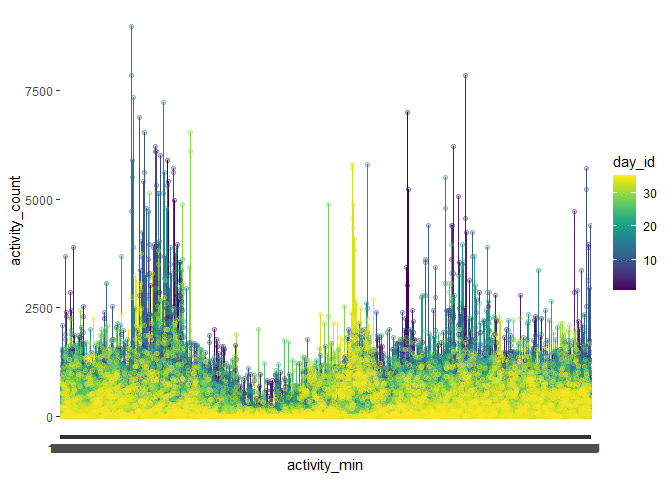
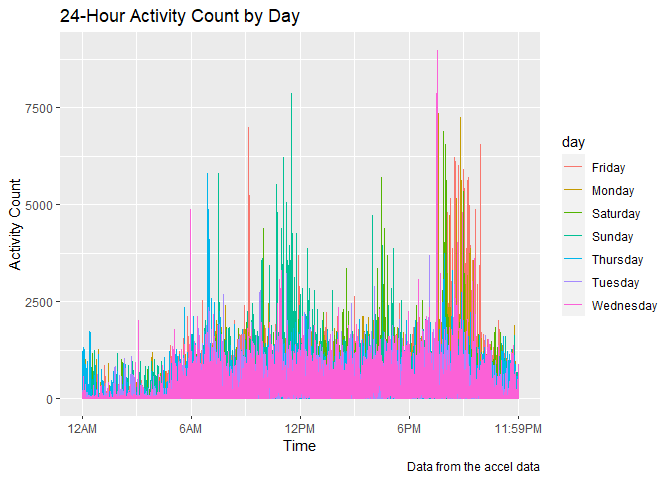
html output and correct minor mistakes

diff --git a/p8105_hw3_jc5929.md b/p8105_hw3_jc5929.md
@@ -2,8 +2,6 @@ p8105_hw3_jc5929
 ================
 2022-10-15
 
-**Question 2**
-
 ``` r
 library(tidyverse) 
 ```
@@ -22,6 +20,115 @@ library(ggridges)
 library(patchwork) 
 library(dplyr)
 library(knitr)
+library(p8105.datasets)
+```
+
+**Question 1**
+
+``` r
+data("instacart")
+
+instacart = 
+  instacart %>% 
+  as_tibble(instacart)
+```
+
+This dataset contains 1384617 rows and 15 columns, with each row
+resprenting a single product from an instacart order. Variables include
+identifiers for user, order, and product; the order in which each
+product was added to the cart. There are several order-level variables,
+describing the day and time of the order, and number of days since prior
+order. Then there are several item-specific variables, describing the
+product name (e.g. Yogurt, Avocado), department (e.g. dairy and eggs,
+produce), and aisle (e.g. yogurt, fresh fruits), and whether the item
+has been ordered by this user in the past. In total, there are 39123
+products found in 131209 orders from 131209 distinct users
+
+``` r
+instacart %>% 
+  count(aisle) %>% 
+  arrange(desc(n))
+```
+
+    ## # A tibble: 134 × 2
+    ##    aisle                              n
+    ##    <chr>                          <int>
+    ##  1 fresh vegetables              150609
+    ##  2 fresh fruits                  150473
+    ##  3 packaged vegetables fruits     78493
+    ##  4 yogurt                         55240
+    ##  5 packaged cheese                41699
+    ##  6 water seltzer sparkling water  36617
+    ##  7 milk                           32644
+    ##  8 chips pretzels                 31269
+    ##  9 soy lactosefree                26240
+    ## 10 bread                          23635
+    ## # … with 124 more rows
+
+``` r
+instacart %>% 
+  count(aisle) %>% 
+  filter(n > 10000) %>% 
+  mutate(aisle = fct_reorder(aisle, n)) %>% 
+  ggplot(aes(x = aisle, y = n)) + 
+  geom_point() + 
+  labs(title = "Number of items ordered in each aisle") +
+  theme(axis.text.x = element_text(angle = 60, hjust = 1))
+```
+
+![](p8105_hw3_jc5929_files/figure-gfm/unnamed-chunk-3-1.png)<!-- -->
+Above is a plot that shows the number of items ordered in each aisle.
+Here, aisles are ordered by ascending number of items.
+
+``` r
+instacart %>% 
+  filter(aisle %in% c("baking ingredients", "dog food care", "packaged vegetables fruits")) %>%
+  group_by(aisle) %>% 
+  count(product_name) %>% 
+  mutate(rank = min_rank(desc(n))) %>% 
+  filter(rank < 4) %>% 
+  arrange(desc(n)) %>%
+  knitr::kable()
+```
+
+| aisle                      | product_name                                  |    n | rank |
+|:---------------------------|:----------------------------------------------|-----:|-----:|
+| packaged vegetables fruits | Organic Baby Spinach                          | 9784 |    1 |
+| packaged vegetables fruits | Organic Raspberries                           | 5546 |    2 |
+| packaged vegetables fruits | Organic Blueberries                           | 4966 |    3 |
+| baking ingredients         | Light Brown Sugar                             |  499 |    1 |
+| baking ingredients         | Pure Baking Soda                              |  387 |    2 |
+| baking ingredients         | Cane Sugar                                    |  336 |    3 |
+| dog food care              | Snack Sticks Chicken & Rice Recipe Dog Treats |   30 |    1 |
+| dog food care              | Organix Chicken & Brown Rice Recipe           |   28 |    2 |
+| dog food care              | Small Dog Biscuits                            |   26 |    3 |
+
+A table showing the mean hour of the day at which Pink Lady Apples and
+Coffee Ice Cream are ordered on each day of the week. This table has
+been formatted in an untidy manner for human readers. Pink Lady Apples
+are generally purchased slightly earlier in the day than Coffee Ice
+Cream, with the exception of day 5.
+
+``` r
+instacart %>%
+  filter(product_name %in% c("Pink Lady Apples", "Coffee Ice Cream")) %>%
+  group_by(product_name, order_dow) %>%
+  summarize(mean_hour = mean(order_hour_of_day)) %>%
+  spread(key = order_dow, value = mean_hour) %>%
+  knitr::kable(digits = 2)
+```
+
+    ## `summarise()` has grouped output by 'product_name'. You can override using the
+    ## `.groups` argument.
+
+| product_name     |     0 |     1 |     2 |     3 |     4 |     5 |     6 |
+|:-----------------|------:|------:|------:|------:|------:|------:|------:|
+| Coffee Ice Cream | 13.77 | 14.32 | 15.38 | 15.32 | 15.22 | 12.26 | 13.83 |
+| Pink Lady Apples | 13.44 | 11.36 | 11.70 | 14.25 | 11.55 | 12.78 | 11.94 |
+
+**Question 2**
+
+``` r
 accel_data=read_csv("data/accel_data.csv") %>%
   janitor::clean_names() %>%
   pivot_longer(
@@ -54,55 +161,67 @@ mutate(activity_count=round(activity_count,2)) %>%
 
 ``` r
 accel_data %>%
-  group_by(day_id) %>%
+  group_by(day_id,week,day) %>%
   summarize(n_obs=n(),
             total_activity=sum(activity_count)) %>%
   knitr::kable()
 ```
 
-| day_id | n_obs | total_activity |
-|-------:|------:|---------------:|
-|      1 |  1440 |      480542.61 |
-|      2 |  1440 |       78828.18 |
-|      3 |  1440 |      376254.00 |
-|      4 |  1440 |      631105.00 |
-|      5 |  1440 |      355923.72 |
-|      6 |  1440 |      307094.19 |
-|      7 |  1440 |      340115.01 |
-|      8 |  1440 |      568839.00 |
-|      9 |  1440 |      295431.00 |
-|     10 |  1440 |      607175.00 |
-|     11 |  1440 |      422018.00 |
-|     12 |  1440 |      474048.00 |
-|     13 |  1440 |      423245.00 |
-|     14 |  1440 |      440962.00 |
-|     15 |  1440 |      467420.00 |
-|     16 |  1440 |      685910.00 |
-|     17 |  1440 |      382928.00 |
-|     18 |  1440 |      467052.00 |
-|     19 |  1440 |      371230.00 |
-|     20 |  1440 |      381507.00 |
-|     21 |  1440 |      468869.00 |
-|     22 |  1440 |      154049.00 |
-|     23 |  1440 |      409450.00 |
-|     24 |  1440 |        1440.00 |
-|     25 |  1440 |      260617.00 |
-|     26 |  1440 |      340291.00 |
-|     27 |  1440 |      319568.00 |
-|     28 |  1440 |      434460.00 |
-|     29 |  1440 |      620860.00 |
-|     30 |  1440 |      389080.00 |
-|     31 |  1440 |        1440.00 |
-|     32 |  1440 |      138421.00 |
-|     33 |  1440 |      549658.00 |
-|     34 |  1440 |      367824.00 |
-|     35 |  1440 |      445366.00 |
+    ## `summarise()` has grouped output by 'day_id', 'week'. You can override using
+    ## the `.groups` argument.
+
+| day_id | week | day       | n_obs | total_activity |
+|-------:|-----:|:----------|------:|---------------:|
+|      1 |    1 | Friday    |  1440 |      480542.61 |
+|      2 |    1 | Monday    |  1440 |       78828.18 |
+|      3 |    1 | Saturday  |  1440 |      376254.00 |
+|      4 |    1 | Sunday    |  1440 |      631105.00 |
+|      5 |    1 | Thursday  |  1440 |      355923.72 |
+|      6 |    1 | Tuesday   |  1440 |      307094.19 |
+|      7 |    1 | Wednesday |  1440 |      340115.01 |
+|      8 |    2 | Friday    |  1440 |      568839.00 |
+|      9 |    2 | Monday    |  1440 |      295431.00 |
+|     10 |    2 | Saturday  |  1440 |      607175.00 |
+|     11 |    2 | Sunday    |  1440 |      422018.00 |
+|     12 |    2 | Thursday  |  1440 |      474048.00 |
+|     13 |    2 | Tuesday   |  1440 |      423245.00 |
+|     14 |    2 | Wednesday |  1440 |      440962.00 |
+|     15 |    3 | Friday    |  1440 |      467420.00 |
+|     16 |    3 | Monday    |  1440 |      685910.00 |
+|     17 |    3 | Saturday  |  1440 |      382928.00 |
+|     18 |    3 | Sunday    |  1440 |      467052.00 |
+|     19 |    3 | Thursday  |  1440 |      371230.00 |
+|     20 |    3 | Tuesday   |  1440 |      381507.00 |
+|     21 |    3 | Wednesday |  1440 |      468869.00 |
+|     22 |    4 | Friday    |  1440 |      154049.00 |
+|     23 |    4 | Monday    |  1440 |      409450.00 |
+|     24 |    4 | Saturday  |  1440 |        1440.00 |
+|     25 |    4 | Sunday    |  1440 |      260617.00 |
+|     26 |    4 | Thursday  |  1440 |      340291.00 |
+|     27 |    4 | Tuesday   |  1440 |      319568.00 |
+|     28 |    4 | Wednesday |  1440 |      434460.00 |
+|     29 |    5 | Friday    |  1440 |      620860.00 |
+|     30 |    5 | Monday    |  1440 |      389080.00 |
+|     31 |    5 | Saturday  |  1440 |        1440.00 |
+|     32 |    5 | Sunday    |  1440 |      138421.00 |
+|     33 |    5 | Thursday  |  1440 |      549658.00 |
+|     34 |    5 | Tuesday   |  1440 |      367824.00 |
+|     35 |    5 | Wednesday |  1440 |      445366.00 |
 
 ``` r
   accel_data %>%
-  group_by(week) %>%
-  ggplot(aes(x=activity_min,y=activity_count,color=day_id))+
-  geom_line()+geom_point(alpha=0.3)+viridis::scale_color_viridis(name='day_id')
+  mutate(activity_min=as.numeric(activity_min)) %>%
+  ggplot(aes(x=activity_min,y=activity_count,color=day))+
+  geom_line()+labs(title = "24-Hour Activity Count by Day",
+    x = "Time",
+    y = "Activity Count",
+    caption = "Data from the accel data"
+  ) + 
+  scale_x_continuous(
+    breaks = c(0, 360, 720, 1080, 1440), 
+    labels = c("12AM", "6AM", "12PM", "6PM", "11:59PM"),
+    limits = c(0, 1440)
+    )
 ```
 
 ![](p8105_hw3_jc5929_files/figure-gfm/q2-1.png)<!-- -->
@@ -125,7 +244,7 @@ month_plot=
   group_by(year,id,month) %>%
   summarize(tmax_average=mean(tmax)) %>%
   ggplot(aes(x=year,y=tmax_average,color=month)) +geom_point()+
-  facet_grid(.~month)
+  facet_grid(.~month)+theme(axis.text.x = element_text(angle = 60, hjust = 1))
 ```
 
     ## `summarise()` has grouped output by 'year', 'id'. You can override using the
@@ -135,7 +254,7 @@ month_plot=
 month_plot
 ```
 
-![](p8105_hw3_jc5929_files/figure-gfm/unnamed-chunk-1-1.png)<!-- -->
+![](p8105_hw3_jc5929_files/figure-gfm/unnamed-chunk-6-1.png)<!-- -->
 
 ``` r
 plot1= ny_data %>%
@@ -151,4 +270,4 @@ plot1+plot2
 
     ## Warning: Removed 1136276 rows containing non-finite values (stat_binhex).
 
-![](p8105_hw3_jc5929_files/figure-gfm/unnamed-chunk-1-2.png)<!-- -->
+![](p8105_hw3_jc5929_files/figure-gfm/unnamed-chunk-6-2.png)<!-- -->
